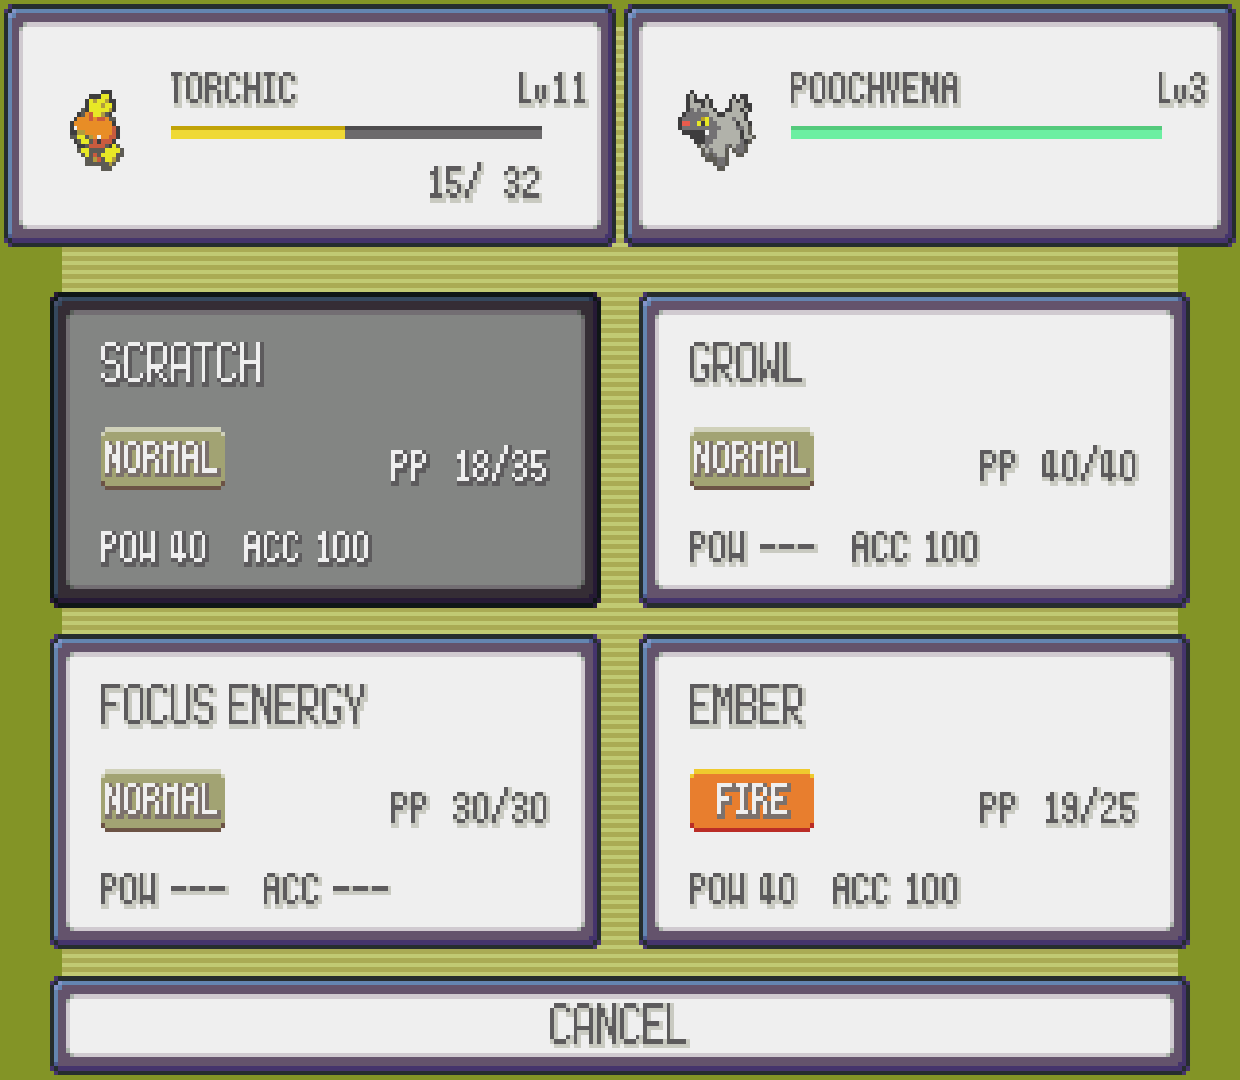
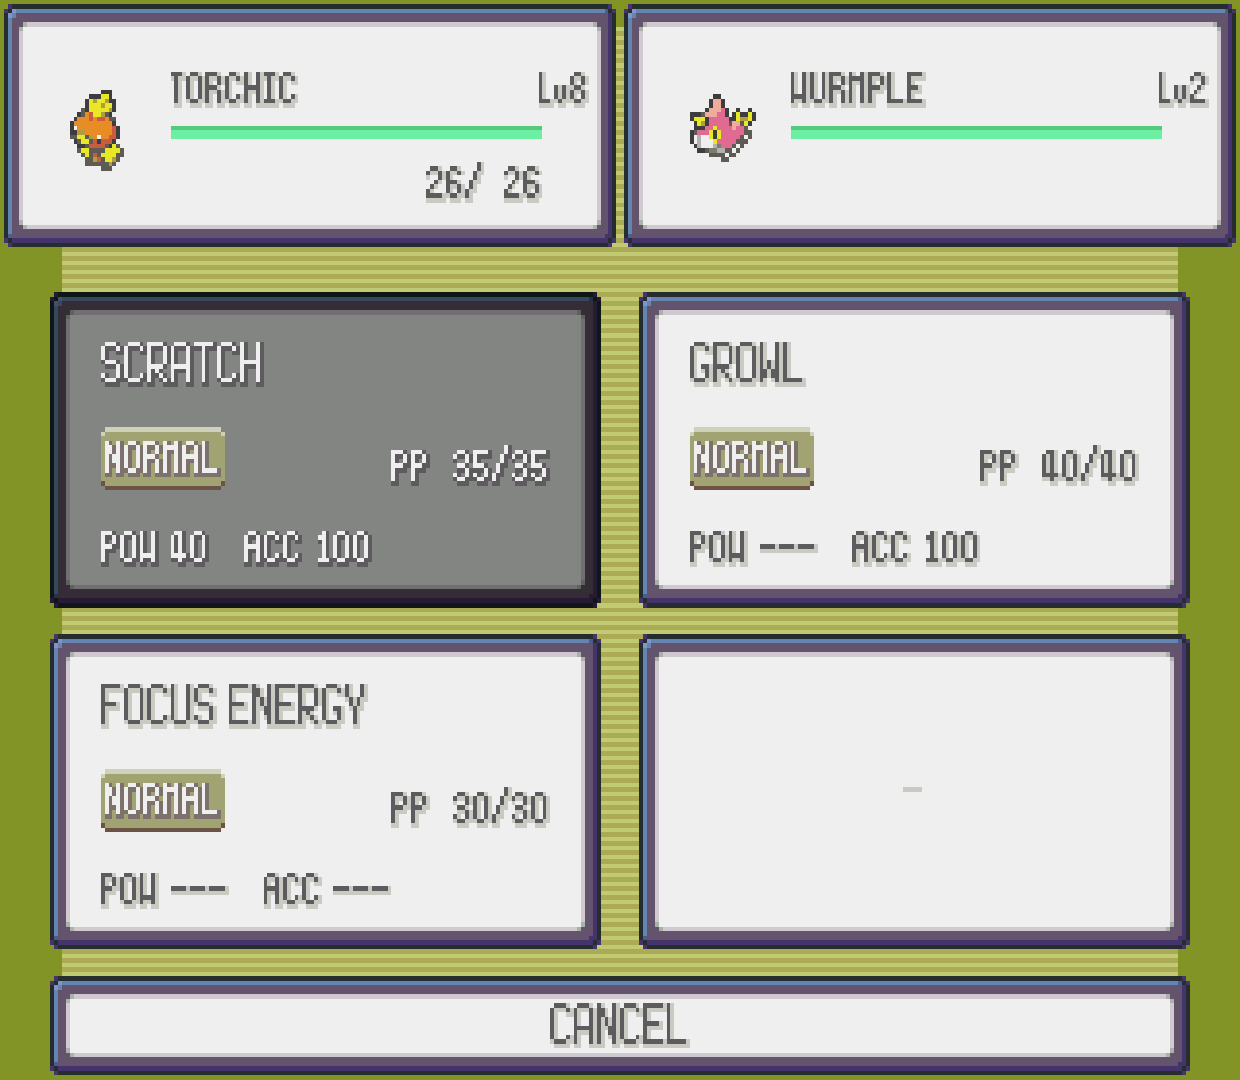
Publish beta 2 validation and sharp battle captures

diff --git a/site/index.html b/site/index.html
@@ -111,15 +111,15 @@
           <figcaption><h3>A sharper new angle</h3><p>Enable voxel scenery in OPTION. Keep 2× detail or choose up to 4×.</p></figcaption>
         </figure>
         <figure class="screenshot-card">
-          <a class="screenshot-link" href="assets/voxel-battle-beta.png" data-shot data-caption="A natural Poochyena encounter against voxel Route 102 scenery. Actual Android beta-candidate emulator capture." aria-label="Enlarge the voxel battle screenshot">
+          <a class="screenshot-link" href="assets/voxel-battle-beta.png" data-shot data-caption="A wild battle with Sharp pixels and 2× voxel scenery. Actual Android emulator capture at Thor's top-panel size." aria-label="Enlarge the voxel battle screenshot">
             <span class="screen-bar"><span>WILD ENCOUNTER</span><span>03 / BATTLE</span></span>
-            <img src="assets/voxel-battle-beta.png" width="1920" height="1080" alt="A wild Poochyena encounter in the voxel overworld, with the encounter message below" loading="lazy" decoding="async">
+            <img src="assets/voxel-battle-beta.png" width="1920" height="1080" alt="Crisp Pokémon sprites and battle text against voxel scenery" loading="lazy" decoding="async">
             <span class="enlarge-hint" aria-hidden="true">+</span>
           </a>
           <figcaption><h3>Stay in the scenery</h3><p>Optional voxel battles bring encounters into the overworld.</p></figcaption>
         </figure>
         <figure class="screenshot-card">
-          <a class="screenshot-link" href="assets/thor-battle-touch.png" data-shot data-caption="Torchic’s moves fill the 1240×1080 bottom display. Actual Android beta-candidate emulator capture." aria-label="Enlarge the bottom-screen battle controls">
+          <a class="screenshot-link" href="assets/thor-battle-touch.png" data-shot data-caption="Torchic’s moves fill the 1240×1080 bottom display. Actual Android emulator capture." aria-label="Enlarge the bottom-screen battle controls">
             <span class="screen-bar"><span>BOTTOM DISPLAY</span><span>04 / TOUCH</span></span>
             <img src="assets/thor-battle-touch.png" width="1240" height="1080" alt="Torchic's move selector fills the lower display with large touch targets" loading="lazy" decoding="async">
             <span class="enlarge-hint" aria-hidden="true">+</span>
@@ -127,7 +127,7 @@
           <figcaption><h3>Your next move, a tap away</h3><p>Battle commands, your party and Bag are within reach on the lower panel.</p></figcaption>
         </figure>
       </div>
-      <p class="gallery-note">Unmodified Android beta-candidate emulator captures at Thor panel sizes. The hero device image is an illustrative mockup. <a href="assets/portrait-controls.png">Earlier phone layout</a> · <a href="{{REPOSITORY_URL}}/blob/main/docs/images/README.md">Screenshot notes</a>.</p>
+      <p class="gallery-note">Unmodified Android emulator captures at Thor panel sizes. The hero device image is an illustrative mockup. <a href="assets/portrait-controls.png">Earlier phone layout</a> · <a href="{{REPOSITORY_URL}}/blob/main/docs/images/README.md">Screenshot notes</a>.</p>
     </section>
 
     <section id="controls" class="controls-section" aria-labelledby="controls-title">

diff --git a/docs/VALIDATION.md b/docs/VALIDATION.md
@@ -1,10 +1,62 @@
 # Validation
 
-The repository's [history cleanup](HISTORY.md) changed commit IDs while keeping
-every retained source snapshot identical. Release identities below preserve the
-original build records; the linked mapping identifies their rewritten commits.
+The repository's [history cleanup](HISTORY.md) changed older commit IDs while
+keeping retained source snapshots identical. The source mapping covers releases
+from before that cleanup; beta.2 uses the current history.
 
-## Latest beta: 0.1.0-beta.1
+## Latest beta: 0.1.0-beta.2
+
+The [signed beta.2 APK](https://github.com/psspssr/pokeemerald-3Ds-dualscreen-thor/releases/tag/v0.1.0-beta.2)
+was built, signed and uploaded by the successful
+[release workflow](https://github.com/psspssr/pokeemerald-3Ds-dualscreen-thor/actions/runs/37291904878).
+[Normal CI](https://github.com/psspssr/pokeemerald-3Ds-dualscreen-thor/actions/runs/37289678524)
+also passed on the exact tagged source. The downloaded APK, manifest and
+checksums match the published asset digests; signature, alignment, package and
+packaged native/data verification passed. The signing identity is unchanged.
+
+| Release identity | Value |
+|---|---|
+| Source | `b4c601580ba645a40347bea1e6be4bea99ae0e49` |
+| Version / Android code | `0.1.0-beta.2` / **10** |
+| APK | `emerald-thor-0.1.0-beta.2-armeabi-v7a.apk` |
+| Size | 27,440,654 bytes |
[1 lines of base64/hex data omitted]
+| Engine/data ABI | `a5a48bd1` |
+
+Overlay 098 makes the intermediate battle image follow **Sharp / Smooth**.
+Previously, linear sampling blurred sprites and labels before the final Sharp
+upscale. Cached battles and transitions now follow a changed preference after
+resuming. Battle geometry, classic resolution and graphics allocation sizes
+are unchanged; terrain anti-aliasing, shadows, bloom and optional blur remain
+separate.
+
+The GLES suite passes **668 assertions**, including the actual patched battle
+composition, transparent sprite edges, separate UI, cached filter changes,
+allocation retry, transition margins and voxel resolution/AA combinations.
+Omitting 098 reproduces 457 blended pixels in Sharp mode. Actual shadow and
+bloom images remain identical when the battle filter changes.
+
+The production candidate passed natural classic and voxel encounters on
+1920×1080 and 1240×1080 emulator displays, live Sharp→Smooth→Sharp changes,
+1×–4× voxel resolution, Off/2×/4× AA, attacks, HP updates, touch Bag/Party and
+return to the field. The sampled player-name region falls from 82 classic or
+216 voxel colors to its four unblended colors. Dialogue stays crisp. The
+original healthbox bounce is preserved; fractional Fill scaling still gives
+unequal physical pixel widths. The released native library differs from that
+candidate only in its GNU build ID, with identical code and data sections.
+
+The exact downloaded APK was installed without changing the save or either
+settings file. Cold start and Continue, a natural voxel battle, live filter
+changes, a touch-selected attack with an HP update, and return to the field
+passed. The [battle screenshots](images/README.md) are unmodified captures from
+that released APK at both Thor panel sizes. QA originals were restored
+byte-for-byte with their original ownership and modes. No full-game playthrough
+is claimed.
+
+Physical Thor visual quality, lid behavior, audible audio and sustained
+performance still need the [hardware pass](testing/HARDWARE_TEST.md).
+
+## Previous beta: 0.1.0-beta.1
 
 The [signed beta.1 APK](https://github.com/psspssr/pokeemerald-3Ds-dualscreen-thor/releases/tag/v0.1.0-beta.1)
 was built and signed locally from the tagged source. [Normal CI](https://github.com/psspssr/pokeemerald-3Ds-dualscreen-thor/actions/runs/37264346440)
@@ -25,8 +77,8 @@ claimed for this build.
 The downloaded three-file bundle matches the retained production bundle
 byte-for-byte. Signature, alignment, package and native/data checks passed,
 and the downloaded APK matches the installed, tested APK. The persistent
-release signing key is unchanged. A later automated retry recognizes the
-complete existing release and can verify it without replacing its bytes.
+release signing key is unchanged. Its original source identity predates the
+history cleanup; use the linked source mapping and new tags for future builds.
 
 That exact nondebuggable APK passed Continue, Bag/Party touch, the repaired
 Pokédex OK button, Settings, Home/resume, single-display fallback and first

diff --git a/README.md b/README.md
@@ -18,7 +18,7 @@
 </p>
 
 <p align="center">
-  <a href="https://github.com/psspssr/pokeemerald-3Ds-dualscreen-thor/releases/tag/v0.1.0-beta.1">Download Android beta</a> ·
+  <a href="https://github.com/psspssr/pokeemerald-3Ds-dualscreen-thor/releases/tag/v0.1.0-beta.2">Download Android beta</a> ·
   <a href="https://psspssr.github.io/emerald-dual-screen-site/">Website</a> ·
   <a href="#get-started">Get started</a> ·
   <a href="#controls">Controls</a> ·
@@ -36,13 +36,13 @@ An Android port of [ZallaxDev's Pokémon Emerald 3Ds Dual Screen](https://github
 
 ## Get started
 
-Download the signed **[0.1.0-beta.1 Android beta](https://github.com/psspssr/pokeemerald-3Ds-dualscreen-thor/releases/tag/v0.1.0-beta.1)** and install its ARMv7 APK. Matching game data is included.
+Download the signed **[0.1.0-beta.2 Android beta](https://github.com/psspssr/pokeemerald-3Ds-dualscreen-thor/releases/tag/v0.1.0-beta.2)** and install its ARMv7 APK. Matching game data is included.
 
 **Press L1 + R1 together** or keyboard **Escape** for Pause and Settings. Both Thor panels fill by default; choose **Fit** to preserve the original proportions. Phone layouts include on-screen controls. [Thor setup](docs/AYN_THOR.md).
 
 Bring your progress through **Settings → Import save / Export save**. Standard Emerald GBA and emulator `.sav` files are supported; save states are not. Restart after importing and save normally in-game. Export your save before replacing a development APK, which uses a different signing key. [Save details](docs/BUILDING.md#engine-only-build-and-data-packs).
 
-**Sharp pixels are the default.** Settings → Display offers **1×–4× voxel resolution**, starting at **2× Sharp** for new settings. Choose 1× for lighter rendering or 3×/4× for more detail; optional anti-aliasing smooths voxel edges. Existing quality choices are preserved. Enable voxel scenery and battles in **OPTION**; set **3D BLUR → OFF** if an older setup still looks soft. **SHOW FPS** starts off. [Display options](docs/AYN_THOR.md#game-graphics-and-summary-menus).
+**Sharp pixels are the default**, including Pokémon sprites and battle text. Settings → Display offers **1×–4× voxel resolution**, starting at **2× Sharp** for new settings. Choose 1× for lighter rendering or 3×/4× for more detail; optional anti-aliasing smooths voxel edges. Existing quality choices are preserved. Enable voxel scenery and battles in **OPTION**; set **3D BLUR → OFF** if an older setup still looks soft. **SHOW FPS** starts off. [Display options](docs/AYN_THOR.md#game-graphics-and-summary-menus).
 
 ## Compatibility
 
@@ -94,7 +94,7 @@ Fast-forward requires enabling it and choosing **2×, 4× or 8×** in Settings. 
     <td align="center"><strong>Sharper voxel scenery</strong></td>
   </tr>
   <tr>
-    <td width="50%"><a href="docs/images/voxel-battle-beta.png"><img src="docs/images/voxel-battle-beta.png" width="480" alt="A wild Poochyena encounter against the voxel Route 102 scenery"></a></td>
+    <td width="50%"><a href="docs/images/voxel-battle-beta.png"><img src="docs/images/voxel-battle-beta.png" width="480" alt="A wild encounter with crisp Pokémon sprites and text against voxel scenery"></a></td>
     <td width="50%"><a href="docs/images/thor-battle-touch.png"><img src="docs/images/thor-battle-touch.png" width="480" alt="Torchic's move selector filling the 1240×1080 bottom display"></a></td>
   </tr>
   <tr>

diff --git a/docs/images/README.md b/docs/images/README.md
@@ -25,15 +25,18 @@ save and camera; ambient animation and NPCs continue between captures.
 | [Classic route](classic-route-beta.png) | Route 102 with voxel rendering disabled. |
 | [2× Sharp](voxel-sharp-2x.png) | Voxel Route 102 at 800×480 internal resolution, blur and anti-aliasing off. |
 | [4× Ultra](voxel-ultra-4x.png) | The same view at 1600×960 internal resolution. |
-| [Voxel battle](voxel-battle-beta.png) | Natural wild Poochyena encounter on Route 102. |
+| [Voxel battle](voxel-battle-beta.png) | Natural Wurmple encounter on Route 101 with Sharp sprites and text. |
 | [Battle touch screen](thor-battle-touch.png) | Torchic's move selector filling the lower panel. |
 | [Touch keyboard](thor-touch-keyboard.png) | Protagonist name entered by finger on the lower panel. |
 
-World and battle captures use the beta candidate at `03b48fc`, engine/data
-ABI `91b37e30`. The keyboard uses an earlier candidate with the same naming
-overlay; it is identified separately from the final build. Later memory-budget
-and default-preference fixes do not make these exact released-APK captures.
-See [validation](../VALIDATION.md) for the released artifact's acceptance.
+The battle and battle-touch images come from the exact signed **beta.2** APK,
+with Sharp pixels, 2× voxel resolution, anti-aliasing Off and 3D blur Off.
+[Capture hashes and release identity](beta2-battle-captures.json).
+
+The classic route and voxel-world images use the earlier candidate at
+`03b48fc`, engine/data ABI `91b37e30`. The keyboard uses an earlier candidate
+with the same naming overlay. These older images are distinct from the exact
+released-APK captures. See [validation](../VALIDATION.md) for coverage.
 
 ## Earlier gallery
 

diff --git a/docs/RELEASING.md b/docs/RELEASING.md
@@ -160,11 +160,10 @@ links the normal CI and unavailable release run separately. This is not an
 automated-release success claim. Android code **9** remains reserved to release
 run **8**, and the release event workflow remains the default for future tags.
 
-The same package/signature, native-data, release-ID, tag/main-ancestry,
-no-overwrite and downloaded-byte checks apply to this bundle. A complete,
-matching upload can later be verified by the workflow's existing-release path.
-If a local upload is interrupted, resume with its **exact retained three-file
-bundle** through the publication helper. There is no Actions signing artifact
-for that local build; do not rebuild, regenerate the manifest, or replace
-published assets when retrying. Resolve hosted runner availability before
-expecting future automatic builds or deployments.
+The bundle passed package/signature, native-data, release-ID, tag/main-ancestry,
+no-overwrite and downloaded-byte checks when published. Its original source
+identity predates the [history cleanup](HISTORY.md), so do not rerun its old
+release event against the rewritten tag. The APK and manifest remain unchanged
+and can still be checked using their published checksums and signing identity.
+There is no Actions signing artifact for that local build. Keep its retained
+three-file bundle unchanged and use new tags for future releases.

diff --git a/docs/testing/BETA_READINESS.md b/docs/testing/BETA_READINESS.md
@@ -11,6 +11,11 @@ late-game routes and hardware limits. The exact beta.1 production APK also
 passed the final emulator/save-export check, and the downloaded release bytes
 match that tested installation.
 
+The beta.2 follow-up corrects battle sprite and text filtering. Its release
+workflow and 668 GLES assertions passed, followed by a gameplay check of the
+exact downloaded APK. [Validation](../VALIDATION.md#latest-beta-010-beta2)
+records the release identity, broader candidate tests and coverage limits.
+
 ## Work order
 
 1. **Record the baseline.** Preserve normal saves and settings, then inspect

diff --git a/site/README.md b/site/README.md
@@ -8,7 +8,7 @@ motion, visible keyboard focus and narrow screens are supported.
 From the repository root:
 
 ```sh
-# Reproducible local preview, pinned to the verified beta.1 release metadata.
+# Reproducible local preview, pinned to the verified beta.2 release metadata.
 python3 tools/build_site.py --snapshot site/release-snapshot.json
 python3 -m http.server 8765 --bind 127.0.0.1 --directory build/site
 ```
